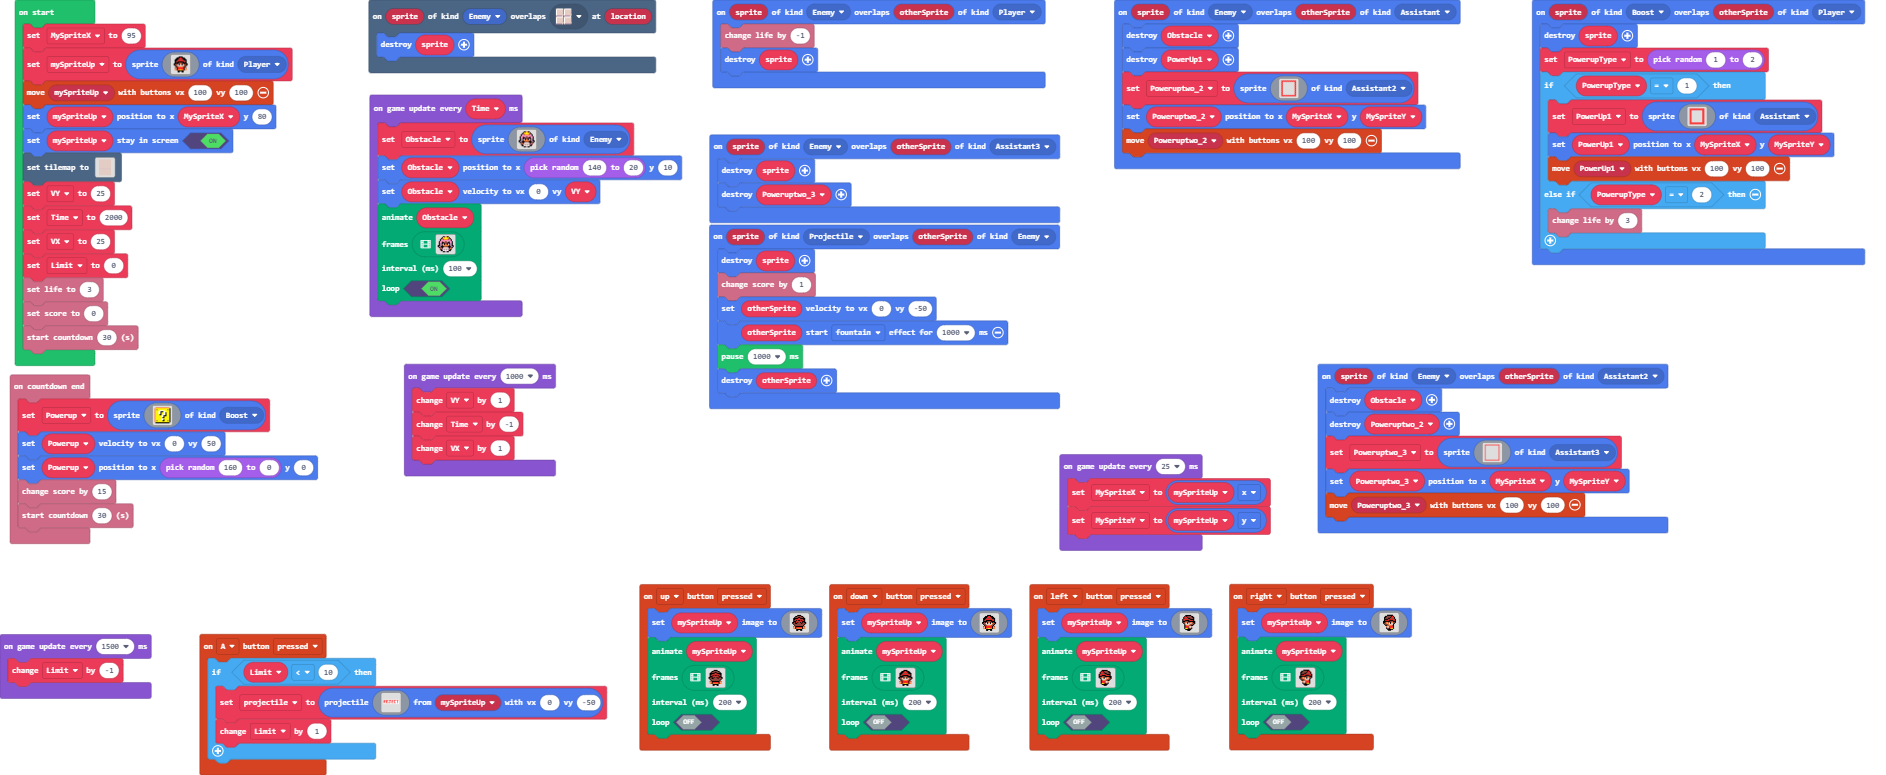
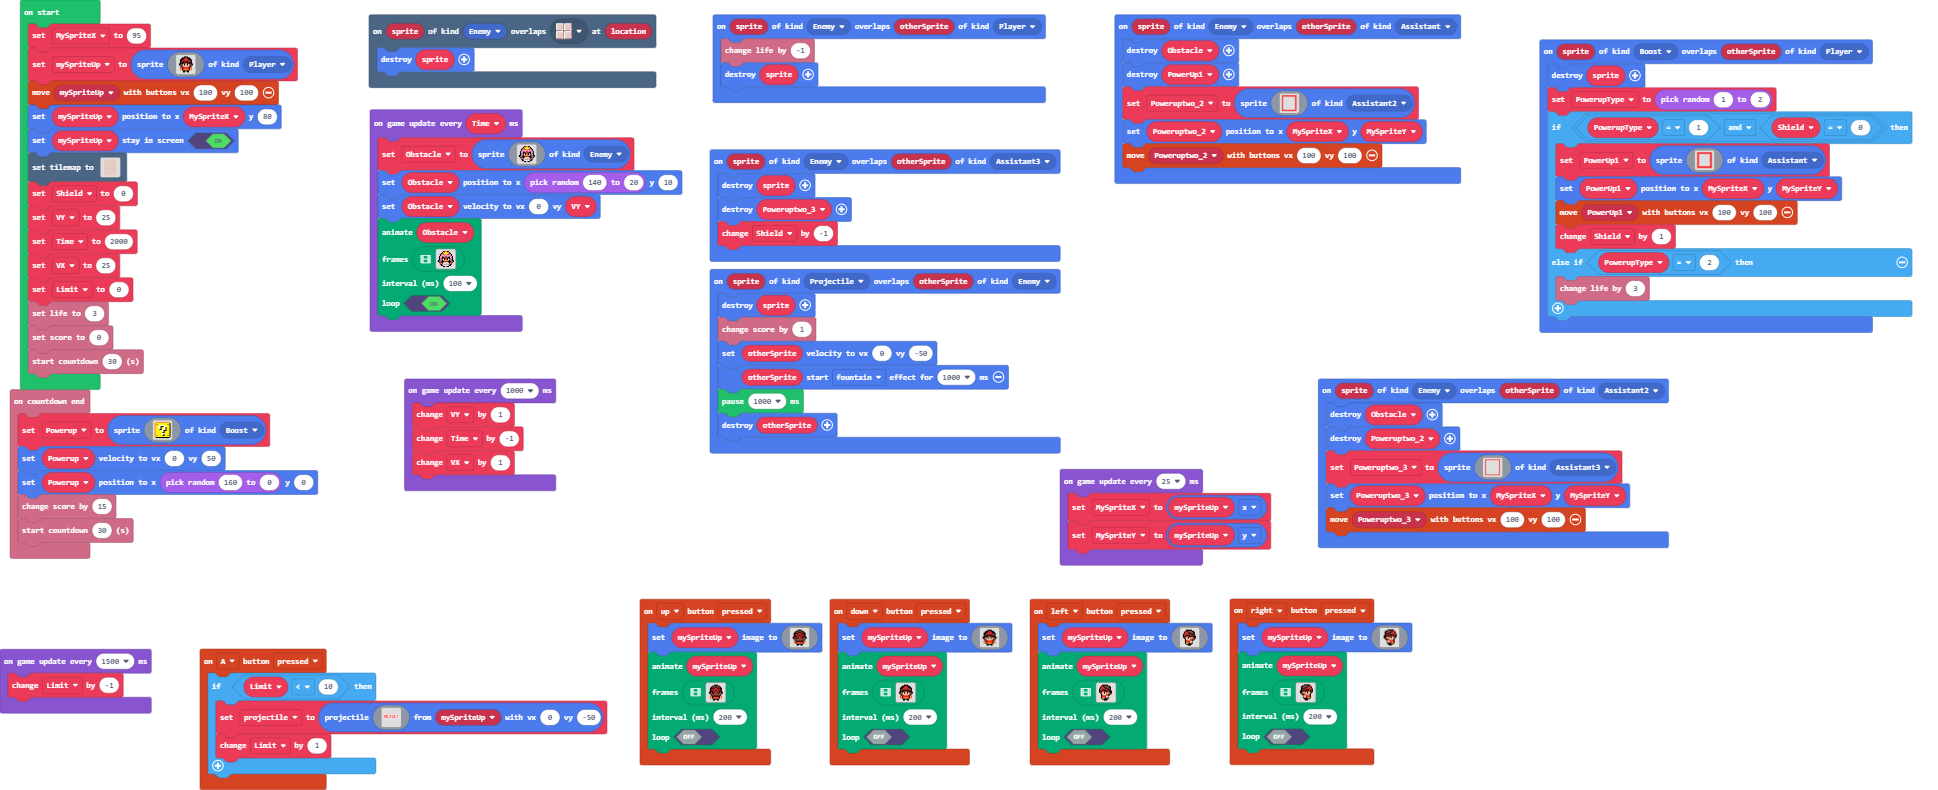
Update main.blocks, main.ts

diff --git a/main.ts b/main.ts
@@ -277,11 +277,12 @@ info.onCountdownEnd(function () {
 sprites.onOverlap(SpriteKind.Enemy, SpriteKind.Assistant3, function (sprite, otherSprite) {
     sprite.destroy()
     Poweruptwo_3.destroy()
+    Shield += -1
 })
 sprites.onOverlap(SpriteKind.Boost, SpriteKind.Player, function (sprite, otherSprite) {
     sprite.destroy()
     PowerupType = randint(1, 2)
-    if (PowerupType == 1) {
+    if (PowerupType == 1 && Shield == 0) {
         PowerUp1 = sprites.create(img`
             22222222222222222222222
             22222222222222222222222
@@ -311,6 +312,7 @@ sprites.onOverlap(SpriteKind.Boost, SpriteKind.Player, function (sprite, otherSp
             `, SpriteKind.Assistant)
         PowerUp1.setPosition(MySpriteX, MySpriteY)
         controller.moveSprite(PowerUp1, 100, 100)
+        Shield += 1
     } else if (PowerupType == 2) {
         info.changeLifeBy(3)
     }
@@ -556,6 +558,7 @@ let Poweruptwo_3: Sprite = null
 let Poweruptwo_2: Sprite = null
 let Obstacle: Sprite = null
 let Limit = 0
+let Shield = 0
 let mySpriteUp: Sprite = null
 let MySpriteX = 0
 MySpriteX = 95
@@ -581,6 +584,7 @@ controller.moveSprite(mySpriteUp, 100, 100)
 mySpriteUp.setPosition(MySpriteX, 80)
 mySpriteUp.setStayInScreen(true)
 tiles.setTilemap(tilemap`level1`)
+Shield = 0
 let VY = 25
 let Time = 2000
 let VX = 25
